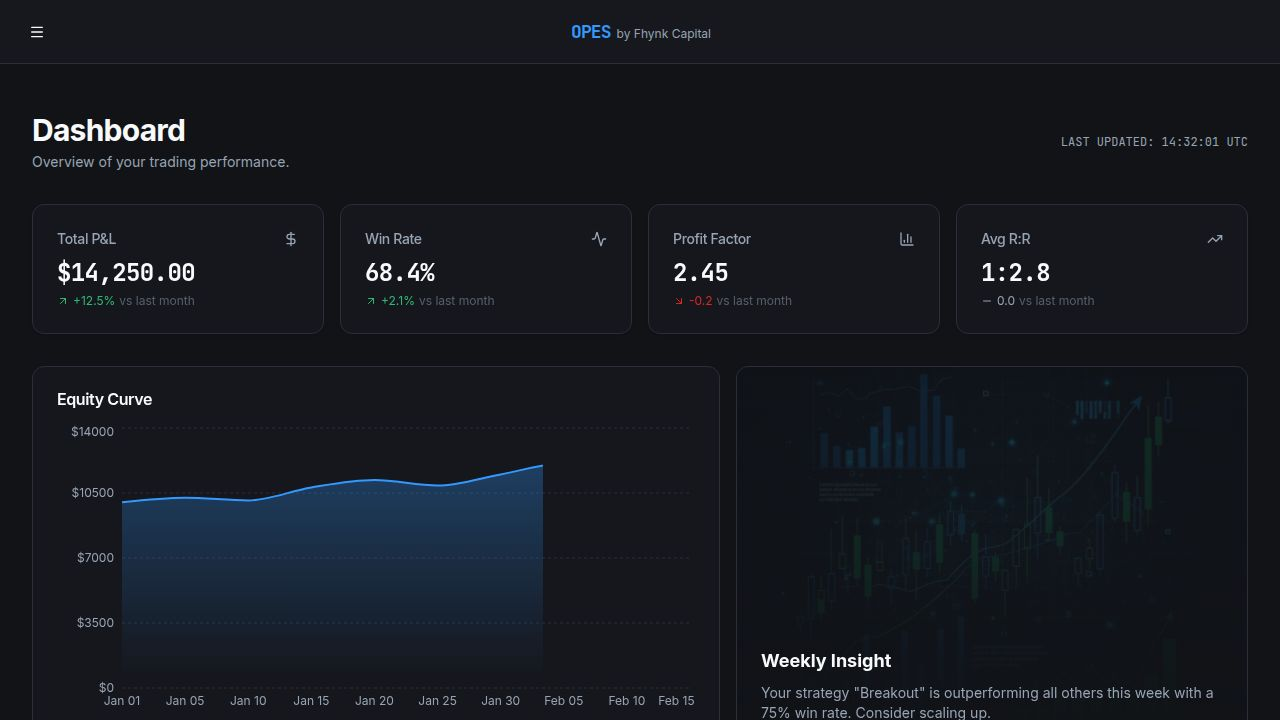
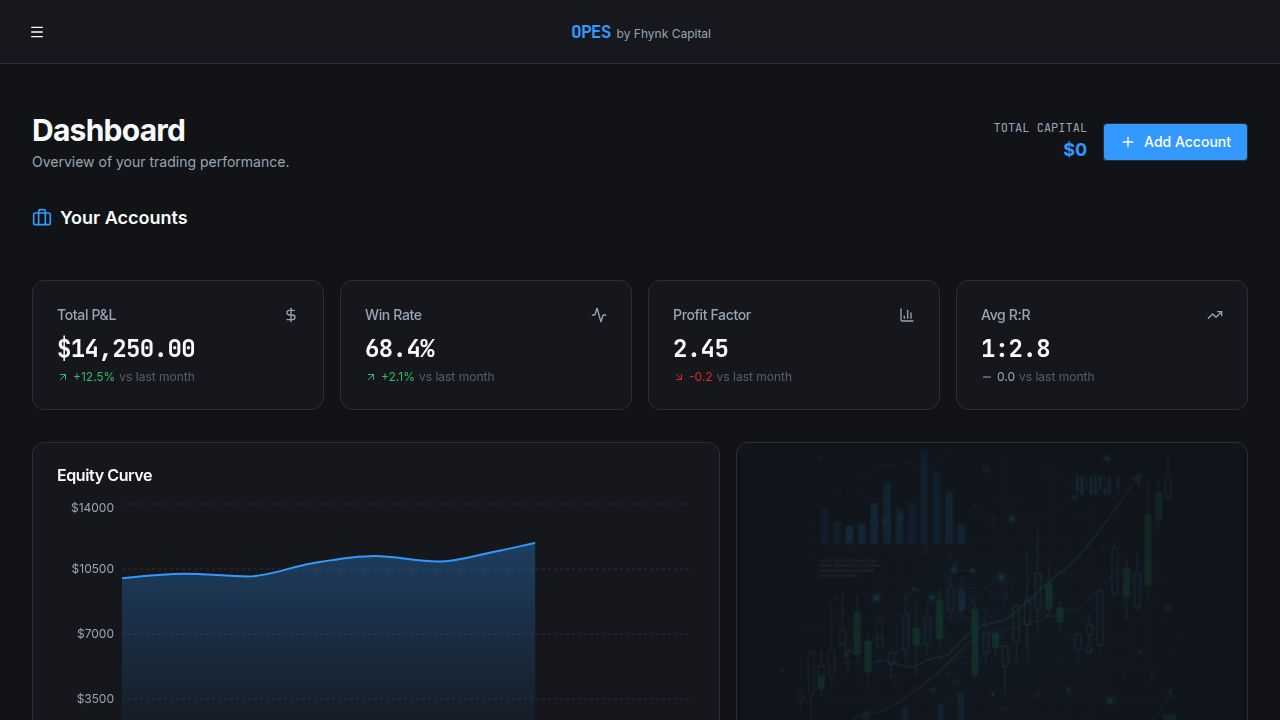
Improve trade journal and dashboard with new metrics and layout
Update `TradeTable` component to display account, RRR, and risk percentage; fix NaN values in dashboard and journal; and optimize layout for better readability.

Replit-Commit-Author: Agent
Replit-Commit-Session-Id: 56263155-224d-4f6c-93f0-67482e3a9e87
Replit-Commit-Checkpoint-Type: full_checkpoint
Replit-Commit-Event-Id: 74dec1ae-3d23-4fc0-8630-bdb2882e42f9
Replit-Commit-Screenshot-Url: https://storage.googleapis.com/screenshot-production-us-central1/7cf087d2-2781-46e5-8dc5-c6856b2a7eba/56263155-224d-4f6c-93f0-67482e3a9e87/hJ8m3dp
Replit-Helium-Checkpoint-Created: true

diff --git a/client/src/components/journal/TradeTable.tsx b/client/src/components/journal/TradeTable.tsx
@@ -16,18 +16,24 @@ import { Link } from "wouter";
 interface TradeTableProps {
   trades: Trade[];
   onDelete?: (id: string) => void;
+  showAccount?: boolean;
+  showRRR?: boolean;
+  showRisk?: boolean;
 }
 
-export function TradeTable({ trades, onDelete }: TradeTableProps) {
+export function TradeTable({ trades, onDelete, showAccount, showRRR, showRisk }: TradeTableProps) {
   return (
     <div className="rounded-md border bg-card/50 backdrop-blur-sm">
       <Table>
         <TableHeader>
           <TableRow className="hover:bg-transparent">
             <TableHead className="w-[100px]">Date</TableHead>
+            {showAccount && <TableHead>Account</TableHead>}
             <TableHead>Pair</TableHead>
             <TableHead>Type</TableHead>
             <TableHead>Strategy</TableHead>
+            {showRRR && <TableHead className="text-right">RRR</TableHead>}
+            {showRisk && <TableHead className="text-right">Risk %</TableHead>}
             <TableHead className="text-right">Entry</TableHead>
             <TableHead className="text-right">Exit</TableHead>
             <TableHead className="text-right">P&L</TableHead>
@@ -39,6 +45,7 @@ export function TradeTable({ trades, onDelete }: TradeTableProps) {
           {trades.map((trade) => (
             <TableRow key={trade.id} className="group cursor-pointer hover:bg-muted/50">
               <TableCell className="font-medium text-muted-foreground">{trade.date}</TableCell>
+              {showAccount && <TableCell className="text-xs font-mono opacity-70">{"FTMO 100k"}</TableCell>}
               <TableCell className="font-bold font-mono">{trade.pair}</TableCell>
               <TableCell>
                 <Badge variant="outline" className={cn(
@@ -49,6 +56,8 @@ export function TradeTable({ trades, onDelete }: TradeTableProps) {
                 </Badge>
               </TableCell>
               <TableCell>{trade.strategy}</TableCell>
+              {showRRR && <TableCell className="text-right font-mono">1:2.5</TableCell>}
+              {showRisk && <TableCell className="text-right font-mono text-xs text-muted-foreground">0.5%</TableCell>}
               <TableCell className="text-right font-mono">{trade.entryPrice}</TableCell>
               <TableCell className="text-right font-mono">{trade.exitPrice || "—"}</TableCell>
               <TableCell className={cn(

diff --git a/client/src/pages/Dashboard.tsx b/client/src/pages/Dashboard.tsx
@@ -170,17 +170,17 @@ export default function Dashboard() {
               </div>
               <EquityChart />
             </div>
-            <div className="col-span-2 md:col-span-3 rounded-lg md:rounded-xl border bg-card/50 backdrop-blur-sm p-0 overflow-hidden relative min-h-[200px] md:min-h-auto">
+            <div className="col-span-2 md:col-span-3 rounded-lg md:rounded-xl border bg-card/50 backdrop-blur-sm p-0 overflow-hidden relative min-h-[160px]">
               <img
                 src={generatedImage}
                 alt="Abstract visualization"
-                className="absolute inset-0 h-full w-full object-cover opacity-30 mix-blend-overlay"
+                className="absolute inset-0 h-full w-full object-cover opacity-20 mix-blend-overlay"
               />
-              <div className="relative z-10 p-4 md:p-6 flex flex-col justify-end h-full bg-gradient-to-t from-background to-transparent">
+              <div className="relative z-10 p-4 md:p-6 flex flex-col justify-end h-full">
                 <h3 className="text-base md:text-lg font-bold">
                   Weekly Insight
                 </h3>
-                <p className="text-xs md:text-sm text-muted-foreground mt-2">
+                <p className="text-xs md:text-sm text-muted-foreground mt-1 max-w-prose">
                   Your strategy "Breakout" is outperforming all others this week
                   with a 75% win rate. Consider scaling up.
                 </p>
@@ -202,7 +202,7 @@ export default function Dashboard() {
               Recent Trades
             </h3>
             <div className="overflow-x-auto -mx-4 md:mx-0 px-4 md:px-0">
-              <TradeTable trades={journalTrades} />
+              <TradeTable trades={journalTrades.slice(0, 5)} showAccount={true} showRRR={true} showRisk={true} />
             </div>
           </div>
         </div>

diff --git a/client/src/pages/Journal.tsx b/client/src/pages/Journal.tsx
@@ -54,7 +54,12 @@ export default function Journal() {
           </div>
 
           <div className="overflow-x-auto -mx-4 md:mx-0 px-4 md:px-0">
-            <TradeTable trades={mockTrades.filter((t) => t.type === "journal")} />
+            <TradeTable 
+              trades={mockTrades.filter((t) => t.type === "journal")} 
+              showAccount={true} 
+              showRRR={true} 
+              showRisk={true} 
+            />
           </div>
           
           <div className="mt-6 flex justify-center">

diff --git a/client/src/components/dashboard/MostProfitableDay.tsx b/client/src/components/dashboard/MostProfitableDay.tsx
@@ -28,7 +28,7 @@ export function MostProfitableDay({ trades }: MostProfitableDayProps) {
     if (trade.status === "Win") {
       existing.wins += 1;
     }
-    existing.pnl += trade.pnl;
+    existing.pnl += trade.pnl || 0;
 
     dayStatsMap.set(dayNum, existing);
   });
